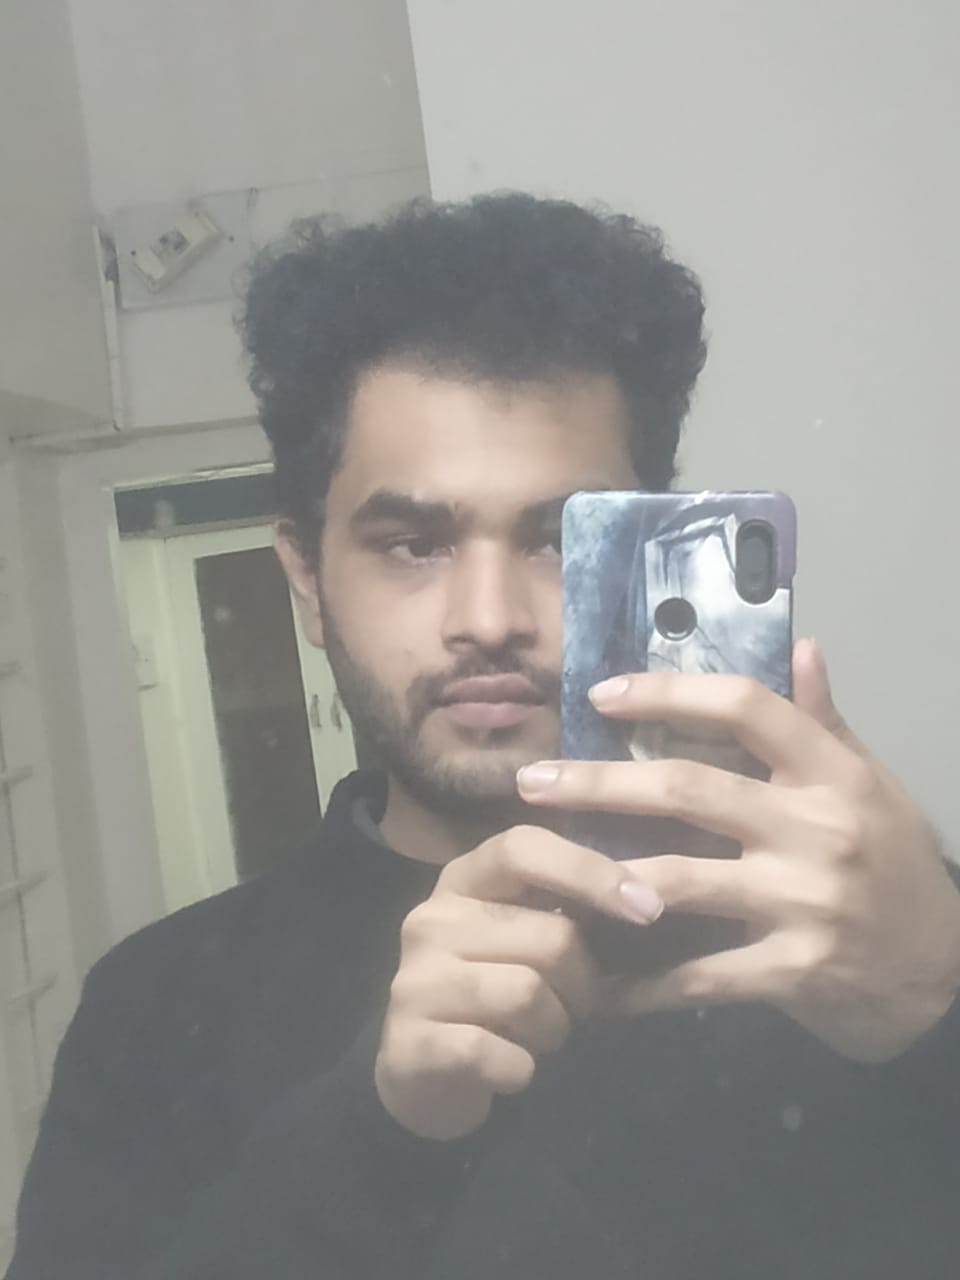
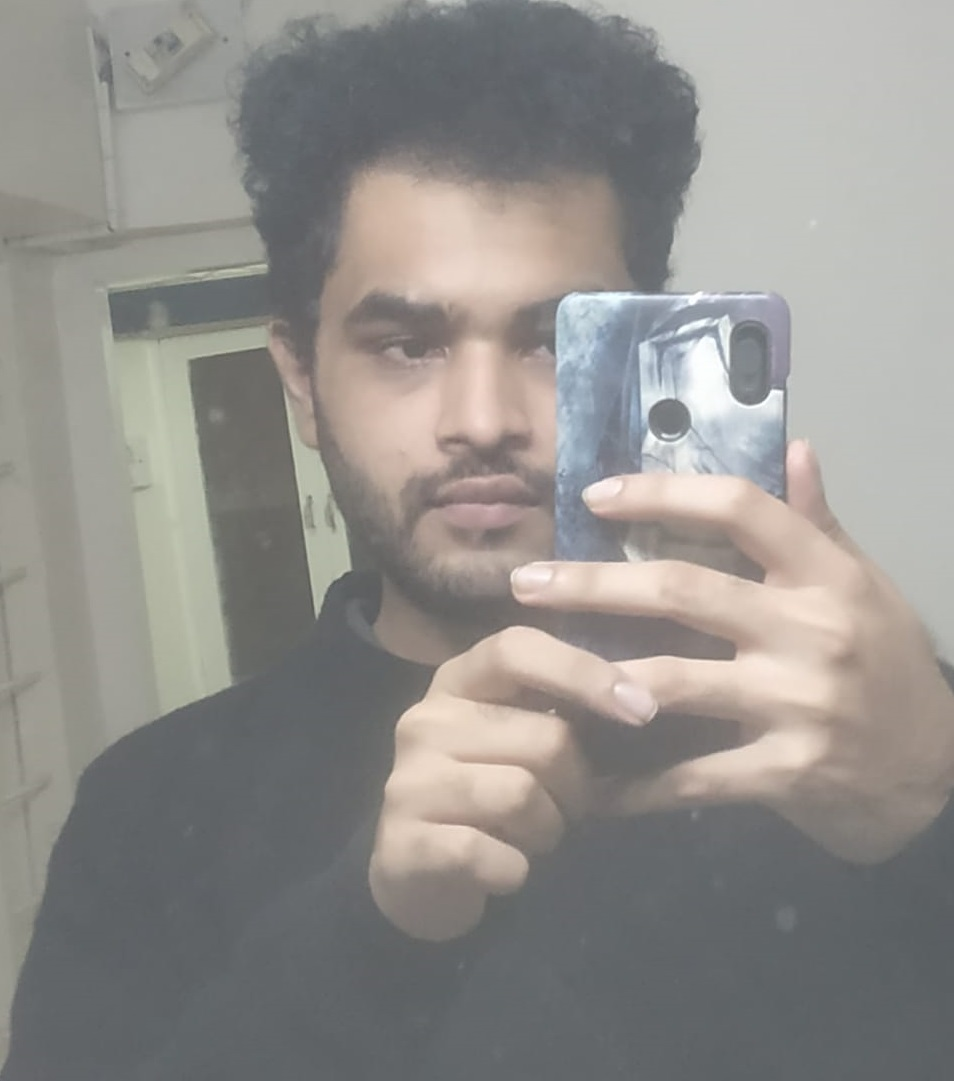
memberscrop

diff --git a/pages/members.html b/pages/members.html
@@ -42,7 +42,7 @@
     <div class="container">
 
       <div id="logo" class="pull-left">
-        <a href="../index.html"><img src="../assets/img/logo2.png" alt=""></a>
+        <a href="../index.html"><img class="memberphoto" src="../assets/img/logo2.png" alt=""></a>
         <!-- Uncomment below if you prefer to use a text logo -->
         <!--<h1><a href="#hero">Regna</a></h1>-->
       </div>
@@ -72,7 +72,7 @@
             <div class="row">
               <div class="col-lg-3 col-md-6">
                 <div class="member" data-aos="fade-up" data-aos-delay="100">
-                  <div class="pic"><img src="../assets/img/team-1.png" alt=""></div>
+                  <div class="pic"><img class="memberphoto" src="../assets/img/team-1.png" alt=""></div>
                   <h4>Vedant Patil</h4>
                   <span>President</span>
                 </div>
@@ -80,7 +80,7 @@
 
               <div class="col-lg-3 col-md-6">
                 <div class="member" data-aos="fade-up" data-aos-delay="400">
-                  <div class="pic"><img src="../assets/img/team-2.png" alt=""></div>
+                  <div class="pic"><img class="memberphoto" src="../assets/img/team-2.png" alt=""></div>
                   <h4>Maitreyi Ahire</h4>
                   <span>Vice President</span>
                 </div>
@@ -88,7 +88,7 @@
 
               <div class="col-lg-3 col-md-6">
                 <div class="member" data-aos="fade-up" data-aos-delay="200">
-                  <div class="pic"><img src="../assets/img/team-3.png" alt=""></div>
+                  <div class="pic"><img class="memberphoto" src="../assets/img/team-3.png" alt=""></div>
                   <h4>Shivani Racca</h4>
                   <span>Secretary</span>
                 </div>
@@ -96,7 +96,7 @@
 
               <div class="col-lg-3 col-md-6">
                 <div class="member" data-aos="fade-up" data-aos-delay="400">
-                  <div class="pic"><img src="../assets/img/team-4.png" alt=""></div>
+                  <div class="pic"><img class="memberphoto" src="../assets/img/team-4.png" alt=""></div>
                   <h4>Nakul Wagh</h4>
                   <span>Joint Secretary</span>
                 </div>
@@ -109,7 +109,7 @@
 
               <div class="col-lg-3 col-md-6">
                 <div class="member" data-aos="fade-up" data-aos-delay="300">
-                  <div class="pic"><img src="../assets/img/team-5.png" alt=""></div>
+                  <div class="pic"><img class="memberphoto" src="../assets/img/team-5.png" alt=""></div>
                   <h4>Riddhi Adhyaru</h4>
                   <span>Sergeant at arms</span>
                 </div>
@@ -117,7 +117,7 @@
 
               <div class="col-lg-3 col-md-6">
                 <div class="member" data-aos="fade-up" data-aos-delay="400">
-                  <div class="pic"><img src="../assets/img/team-6.png" alt=""></div>
+                  <div class="pic"><img class="memberphoto" src="../assets/img/team-6.png" alt=""></div>
                   <h4>Tanmay Joshi</h4>
                   <span>Treasurer</span>
                 </div>
@@ -144,7 +144,7 @@
                 </div>
                 <div class="col-lg-3 col-md-6">
                 <div class="member" data-aos="fade-up" data-aos-delay="100">
-                  <div class="pic"><img src="../assets/img/committe/marketting_1.png" alt=""></div>
+                  <div class="pic"><img class="memberphoto" src="../assets/img/committe/marketting_1.png" alt=""></div>
                   <h4>Anam Tyrewala</h4>
                   <span>Head</span>
                 </div>
@@ -152,7 +152,7 @@
 
               <div class="col-lg-3 col-md-6">
                 <div class="member" data-aos="fade-up" data-aos-delay="400">
-                  <div class="pic"><img src="../assets/img/committe/marketting_2.png" alt=""></div>
+                  <div class="pic"><img class="memberphoto" src="../assets/img/committe/marketting_2.png" alt=""></div>
                   <h4>Pari Racca</h4>
                   <span>Co-Head</span>
                 </div>
@@ -178,7 +178,7 @@
               </div>
               <div class="col-lg-3 col-md-6">
               <div class="member" data-aos="fade-up" data-aos-delay="100">
-                <div class="pic"><img src="../assets/img/committe/editorial_1.png" alt=""></div>
+                <div class="pic"><img class="memberphoto" src="../assets/img/committe/editorial_1.png" alt=""></div>
                 <h4>Yashraj Mahale</h4>
                 <span>Head</span>
               </div>
@@ -186,7 +186,7 @@
 
             <div class="col-lg-3 col-md-6">
               <div class="member" data-aos="fade-up" data-aos-delay="400">
-                <div class="pic"><img src="../assets/img/committe/editorial_2.png" alt=""></div>
+                <div class="pic"><img class="memberphoto" src="../assets/img/committe/editorial_2.png" alt=""></div>
                 <h4>Namrata Jagwani</h4>
                 <span>Co-Head</span>
               </div>
@@ -211,7 +211,7 @@
             </div>
             <div class="col-lg-3 col-md-6">
             <div class="member" data-aos="fade-up" data-aos-delay="100">
-              <div class="pic"><img src="../assets/img/committe/club_1.png" alt=""></div>
+              <div class="pic"><img class="memberphoto" src="../assets/img/committe/club_1.png" alt=""></div>
               <h4>Vyankatesh Shimpi</h4>
               <span>Head</span>
             </div>
@@ -219,7 +219,7 @@
 
           <div class="col-lg-3 col-md-6">
             <div class="member" data-aos="fade-up" data-aos-delay="400">
-              <div class="pic"><img src="../assets/img/committe/club_2.png" alt=""></div>
+              <div class="pic"><img class="memberphoto" src="../assets/img/committe/club_2.png" alt=""></div>
               <h4>Dhruv Toshniwal</h4>
               <span>Co-Head</span>
             </div>
@@ -245,7 +245,7 @@
           </div>
           <div class="col-lg-3 col-md-6">
           <div class="member" data-aos="fade-up" data-aos-delay="100">
-            <div class="pic"><img src="../assets/img/committe/community_1.png" alt=""></div>
+            <div class="pic"><img class="memberphoto" src="../assets/img/committe/community_1.png" alt=""></div>
             <h4>Siddhi Ambekar</h4>
             <span>Head</span>
           </div>
@@ -253,7 +253,7 @@
 
         <div class="col-lg-3 col-md-6">
           <div class="member" data-aos="fade-up" data-aos-delay="400">
-            <div class="pic"><img src="../assets/img/committe/community_2.png" alt=""></div>
+            <div class="pic"><img class="memberphoto" src="../assets/img/committe/community_2.png" alt=""></div>
             <h4>Ria Chhachan</h4>
             <span>Co-Head</span>
           </div>
@@ -280,7 +280,7 @@
         </div>
         <div class="col-lg-3 col-md-6">
         <div class="member" data-aos="fade-up" data-aos-delay="100">
-          <div class="pic"><img src="../assets/img/committe/creative_1.png" alt=""></div>
+          <div class="pic"><img class="memberphoto" src="../assets/img/committe/creative_1.png" alt=""></div>
           <h4>Hrishi Thakur</h4>
           <span>Head</span>
         </div>
@@ -288,7 +288,7 @@
 
       <div class="col-lg-3 col-md-6">
         <div class="member" data-aos="fade-up" data-aos-delay="400">
-          <div class="pic"><img src="../assets/img/committe/creative_2.png" alt=""></div>
+          <div class="pic"><img class="memberphoto" src="../assets/img/committe/creative_2.png" alt=""></div>
           <h4>Manas Dhanait</h4>
           <span>Co-Head</span>
         </div>
@@ -314,7 +314,7 @@
         </div>
         <div class="col-lg-3 col-md-6">
         <div class="member" data-aos="fade-up" data-aos-delay="100">
-          <div class="pic"><img src="../assets/img/committe/eservices_1.jpeg" alt=""></div>
+          <div class="pic"><img class="memberphoto" src="../assets/img/committe/eservices_1.jpeg" alt=""></div>
           <h4>Hrushikesh Pandit</h4>
           <span>Head</span>
         </div>
@@ -322,7 +322,7 @@
 
       <div class="col-lg-3 col-md-6">
         <div class="member" data-aos="fade-up" data-aos-delay="400">
-          <div class="pic"><img src="../assets/img/committe/eservices_2.png" alt=""></div>
+          <div class="pic"><img class="memberphoto" src="../assets/img/committe/eservices_2.png" alt=""></div>
           <h4>Divya Talera</h4>
           <span>Co-Head</span>
         </div>
@@ -349,7 +349,7 @@
         </div>
         <div class="col-lg-3 col-md-6">
         <div class="member" data-aos="fade-up" data-aos-delay="100">
-          <div class="pic"><img src="../assets/img/committe/hr_1.png" alt=""></div>
+          <div class="pic"><img class="memberphoto" src="../assets/img/committe/hr_1.png" alt=""></div>
           <h4>Pranav Parwate</h4>
           <span>Head</span>
         </div>
@@ -357,7 +357,7 @@
 
       <div class="col-lg-3 col-md-6">
         <div class="member" data-aos="fade-up" data-aos-delay="400">
-          <div class="pic"><img src="../assets/img/committe/hr_2.png" alt=""></div>
+          <div class="pic"><img class="memberphoto" src="../assets/img/committe/hr_2.png" alt=""></div>
           <h4>Rutuja Deshmukh</h4>
           <span>Co-Head</span>
         </div>
@@ -383,7 +383,7 @@
         </div>
         <div class="col-lg-3 col-md-6">
         <div class="member" data-aos="fade-up" data-aos-delay="100">
-          <div class="pic"><img src="../assets/img/committe/international_1.png" alt=""></div>
+          <div class="pic"><img class="memberphoto" src="../assets/img/committe/international_1.png" alt=""></div>
           <h4>Yash Pardeshi</h4>
           <span>Head</span>
         </div>
@@ -391,7 +391,7 @@
 
       <div class="col-lg-3 col-md-6">
         <div class="member" data-aos="fade-up" data-aos-delay="400">
-          <div class="pic"><img src="../assets/img/committe/international_2.png" alt=""></div>
+          <div class="pic"><img class="memberphoto" src="../assets/img/committe/international_2.png" alt=""></div>
           <h4>Tanishka Patil</h4>
           <span>Co-Head</span>
         </div>
@@ -418,7 +418,7 @@
         </div>
         <div class="col-lg-3 col-md-6">
         <div class="member" data-aos="fade-up" data-aos-delay="100">
-          <div class="pic"><img src="../assets/img/committe/professional_1.png" alt=""></div>
+          <div class="pic"><img class="memberphoto" class="memberphoto" src="../assets/img/committe/professional_1.png" alt=""></div>
           <h4>Manthan Chhajed</h4>
           <span>Head</span>
         </div>
@@ -426,7 +426,7 @@
 
       <div class="col-lg-3 col-md-6">
         <div class="member" data-aos="fade-up" data-aos-delay="400">
-          <div class="pic"><img src="../assets/img/committe/professional_2.png" alt=""></div>
+          <div class="pic"><img class="memberphoto" class="memberphoto" src="../assets/img/committe/professional_2.png" alt=""></div>
           <h4>Nidhi Chordia</h4>
           <span>Co-Head</span>
         </div>
@@ -451,7 +451,7 @@
         </div>
         <div class="col-lg-3 col-md-6">
         <div class="member" data-aos="fade-up" data-aos-delay="100">
-          <div class="pic"><img src="../assets/img/committe/social_1.png" alt=""></div>
+          <div class="pic"><img class="memberphoto" class="memberphoto" src="../assets/img/committe/social_1.png" alt=""></div>
           <h4>Arpit Gahlawat</h4>
           <span>Head</span>
         </div>
@@ -459,7 +459,7 @@
 
       <div class="col-lg-3 col-md-6">
         <div class="member" data-aos="fade-up" data-aos-delay="400">
-          <div class="pic"><img src="../assets/img/committe/social_2.png" alt=""></div>
+          <div class="pic"><img class="memberphoto" src="../assets/img/committe/social_2.png" alt=""></div>
           <h4>Sahil Racca</h4>
           <span>Co-Head</span>
         </div>

diff --git a/assets/css/style.css b/assets/css/style.css
@@ -1472,3 +1472,8 @@ section {
 {
   margin-top: 60px;
 }
+
+.memberphoto
+{
+  object-fit: cover;
+}
